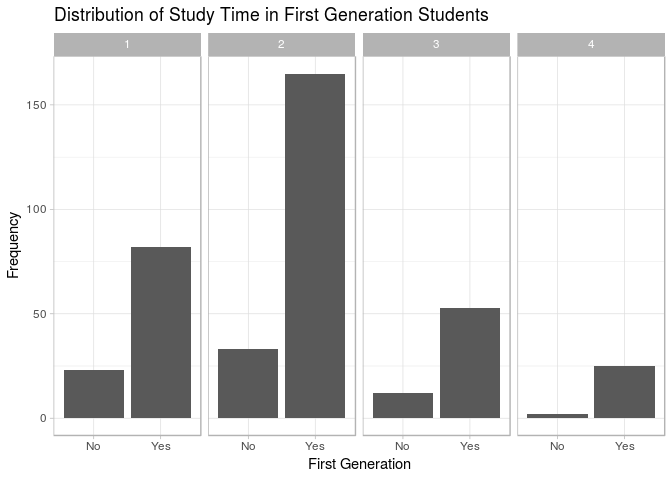
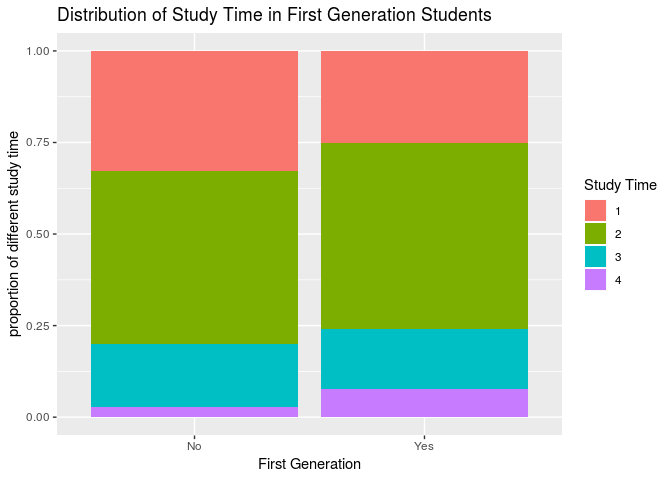
graph undate

diff --git a/proposal/proposal.md b/proposal/proposal.md
@@ -28,7 +28,15 @@ students <- students %>%
     Fedu < 4 ~ "Yes",
     Medu == 4 ~ "No",
     Fedu == 4 ~ "No"))
+students %>%
+  count(first_gen)
 ```
+
+    ## # A tibble: 2 x 2
+    ##   first_gen     n
+    ##   <chr>     <int>
+    ## 1 No           70
+    ## 2 Yes         325
 
 ``` r
 students <- students %>%
@@ -585,12 +593,77 @@ students %>%
     ## 2 Yes            2     1
 
 ``` r
-ggplot (students, mapping = aes(x = first_gen)) +
-  geom_bar() + 
-  labs(title = "Distribution of Study Time in First Generation Students", x = "First Generation", y = "Frequency") + facet_grid ( ~studytime) + theme_light()
+students %>%
+  group_by(first_gen) %>%
+  summarise (med=median(avg_score),
+             IQR = IQR(avg_score))
+```
+
+    ## # A tibble: 2 x 3
+    ##   first_gen   med   IQR
+    ##   <chr>     <dbl> <dbl>
+    ## 1 No         12.2  4.67
+    ## 2 Yes        10.3  5
+
+``` r
+students %>%
+  count(sex)
+```
+
+    ## # A tibble: 2 x 2
+    ##   sex       n
+    ##   <chr> <int>
+    ## 1 F       208
+    ## 2 M       187
+
+``` r
+ggplot (students, mapping = aes(x = first_gen, y = avg_score)) +
+  geom_boxplot() + 
+  labs(title = "Distribution of Study Time in First Generation Students", x = "First Generation", y = "Frequency") + theme_light()
+```
+
+![](proposal_files/figure-gfm/unnamed-chunk-4-1.png)<!-- -->
+
+``` r
+ggplot (students, mapping = aes(x = sex, y = avg_score)) +
+  geom_boxplot() + 
+  labs(title = "Distribution of Study Time in First Generation Students", x = "First Generation", y = "Frequency") + theme_light()
+```
+
+![](proposal_files/figure-gfm/unnamed-chunk-5-1.png)<!-- -->
+
+``` r
+ggplot (data = students) +
+  geom_bar(mapping = aes(x = first_gen, fill = as.character(studytime)), position = "fill") + 
+  labs(title = "Distribution of Study Time in First Generation Students", x = "First Generation", y = "proportion of different study time", fill = "Study Time") 
 ```
 
 ![](proposal_files/figure-gfm/hist-studytime-1.png)<!-- -->
+
+``` r
+students
+```
+
+    ## # A tibble: 395 x 35
+    ##    school sex     age address famsize Pstatus  Medu  Fedu Mjob  Fjob 
+    ##    <chr>  <chr> <dbl> <chr>   <chr>   <chr>   <dbl> <dbl> <chr> <chr>
+    ##  1 GP     F        18 U       GT3     A           4     4 at_h… teac…
+    ##  2 GP     F        17 U       GT3     T           1     1 at_h… other
+    ##  3 GP     F        15 U       LE3     T           1     1 at_h… other
+    ##  4 GP     F        15 U       GT3     T           4     2 heal… serv…
+    ##  5 GP     F        16 U       GT3     T           3     3 other other
+    ##  6 GP     M        16 U       LE3     T           4     3 serv… other
+    ##  7 GP     M        16 U       LE3     T           2     2 other other
+    ##  8 GP     F        17 U       GT3     A           4     4 other teac…
+    ##  9 GP     M        15 U       LE3     A           3     2 serv… other
+    ## 10 GP     M        15 U       GT3     T           3     4 other other
+    ## # … with 385 more rows, and 25 more variables: reason <chr>,
+    ## #   guardian <chr>, traveltime <dbl>, studytime <dbl>, failures <dbl>,
+    ## #   schoolsup <chr>, famsup <chr>, paid <chr>, activities <chr>,
+    ## #   nursery <chr>, higher <chr>, internet <chr>, romantic <chr>,
+    ## #   famrel <dbl>, freetime <dbl>, goout <dbl>, Dalc <dbl>, Walc <dbl>,
+    ## #   health <dbl>, absences <dbl>, G1 <dbl>, G2 <dbl>, G3 <dbl>,
+    ## #   first_gen <chr>, avg_score <dbl>
 
 ``` r
 ggplot(data = students, mapping = aes(x = goout, y = avg_score, fill = first_gen)) +
